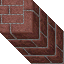
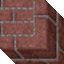
Po długich walkach naprawiony git. Dodałem prototyp strzelania prostą kulką ognia, zminiejszyłem tekstury, dodałem drzewa.

diff --git a/GraRPG/src/com/rpg/game/GameLogic.java b/GraRPG/src/com/rpg/game/GameLogic.java
@@ -6,12 +6,17 @@ package com.rpg.game;
 
 import com.rpg.draws.Render;
 import com.rpg.gameObject.GOPlayer;
+import com.rpg.gameObject.GOProjectile;
 import com.rpg.gameObject.GOTerrain;
 import com.rpg.gameObject.GameObject;
 import com.rpg.map.Map;
 import java.util.ArrayList;
 import java.util.Collections;
+import java.util.logging.Level;
+import java.util.logging.Logger;
 import org.lwjgl.input.Keyboard;
+import org.lwjgl.input.Mouse;
+import org.lwjgl.opengl.Display;
 
 /**
  *
@@ -22,9 +27,12 @@ public class GameLogic
 
     private final int[][] colorCode;
     ArrayList<GOTerrain> walls;
+    ArrayList<GOTerrain> border;
     ArrayList<GameObject> objects;
     GOPlayer player;
     Render renderer;
+    Thread t1;
+    GOProjectile spell = null;
 
     public GameLogic()
     {
@@ -32,12 +40,35 @@ public class GameLogic
 	renderer = new Render();
 	colorCode = map.getColorCodes();
 	walls = new ArrayList<>();
+	border = new ArrayList<>();
 	createObjects();
+	t1 = new Thread(new Runnable()
+	{
+
+	    @Override
+	    public void run()
+	    {
+		try
+		{
+		    Thread.sleep(1000);
+		} catch (InterruptedException ex)
+		{
+		    Logger.getLogger(GameLogic.class.getName()).log(Level.SEVERE, null, ex);
+		}
+	    }
+	});
     }
 
     public void update()
     {
-
+	if (spell != null)
+	{
+	    if (spell.isExists())
+		spell.update();
+	    else
+		spell = null;
+	}
+	    
     }
 
     private boolean createObjects()
@@ -47,26 +78,32 @@ public class GameLogic
 	    return false;
 	}
 	int posx = 0, posy = 0;
-	
+
 	for (int i = 0; i < colorCode.length; i++)
 	{
+	    walls.add(new GOTerrain(0, posy, 10, 40, 0));
+	    walls.add(new GOTerrain(posy, 0, 40, 10, 0));
 	    for (int j = 0; j < colorCode[i].length; j++)
 	    {
-		//if(colorCode[i][j] == 2)
-		    //terrain.add(new GOTerrain(true, posx, posy, 40, 40));
-		if(colorCode[i][j] == 1)
-		    walls.add(new GOTerrain(false, posx, posy, 40, 40, 1));
-		else if(colorCode[i][j] == 3)
+		if (colorCode[i][j] == 2)
+		{
+		    walls.add(new GOTerrain(posx, posy, 10, 10, 3));
+		}
+		if (colorCode[i][j] == 1)
+		{
+		    walls.add(new GOTerrain(posx, posy, 40, 40, 1));
+		} else if (colorCode[i][j] == 3)
 		{
 		    player = new GOPlayer(posx, posy, 40, 40, walls, 2);
 		    //terrain.add(new GOTerrain(true, posx, posy, 40, 40));
 		}
 		posx += 40;
 	    }
-	    posy +=40;
+	    posy += 40;
 	    posx = 0;
 	}
 	objects = new ArrayList<>(walls);
+	walls.addAll(border);
 	objects.add(player);
 	return true;
     }
@@ -74,22 +111,51 @@ public class GameLogic
     void render()
     {
 	renderer.renderTerrain();
-	
-	//renderer.renderPlayer(player);
 	Collections.sort(objects);
+	renderer.renderObjects(new ArrayList<GameObject>(border));
 	renderer.renderObjects(objects);
-	//renderer.renderPlayer(player);
+	if(spell != null)
+	    renderer.renderSpell(spell);
     }
 
     void getInput()
     {
-	if(Keyboard.isKeyDown(Keyboard.KEY_W))
+	if (Keyboard.isKeyDown(Keyboard.KEY_W))
+	{
 	    player.moveY(-1);
-	else if(Keyboard.isKeyDown(Keyboard.KEY_S))
+	} else if (Keyboard.isKeyDown(Keyboard.KEY_S))
+	{
 	    player.moveY(1);
-	else if(Keyboard.isKeyDown(Keyboard.KEY_D))
+	} else if (Keyboard.isKeyDown(Keyboard.KEY_D))
+	{
 	    player.moveX(1);
-	else if(Keyboard.isKeyDown(Keyboard.KEY_A))
+	} else if (Keyboard.isKeyDown(Keyboard.KEY_A))
+	{
 	    player.moveX(-1);
+	}
+	if (Mouse.isButtonDown(0))
+	{
+	    if (!t1.isAlive())
+	    {
+		//objects.add(new GOTerrain(Mouse.getX(), Display.getHeight() - Mouse.getY(), 10, 10, 3));
+		spell = new GOProjectile(player.getX(), player.getY(), 10, 10, 5, Mouse.getX(), Display.getHeight() -  Mouse.getY(), walls);
+		t1 = new Thread(new Runnable()
+		{
+
+		    @Override
+		    public void run()
+		    {
+			try
+			{
+			    Thread.sleep(200);
+			} catch (InterruptedException ex)
+			{
+			    Logger.getLogger(GameLogic.class.getName()).log(Level.SEVERE, null, ex);
+			}
+		    }
+		});
+		t1.start();
+	    }
+	}
     }
 }

diff --git a/GraRPG/src/com/rpg/draws/Render.java b/GraRPG/src/com/rpg/draws/Render.java
@@ -7,6 +7,7 @@ package com.rpg.draws;
 
 import com.rpg.game.Game;
 import com.rpg.gameObject.GOPlayer;
+import com.rpg.gameObject.GOProjectile;
 import com.rpg.gameObject.GOTerrain;
 import com.rpg.gameObject.GameObject;
 import java.io.File;
@@ -35,10 +36,13 @@ public class Render
 
     Texture wallTex;
     Texture grassTex;
+    Texture waterTex;
+    Texture spellTex;
     Texture playerFrontTex;
     Texture playerRightTex;
     Texture playerBackTex;
     Texture playerLeftTex;
+    Texture treeTex;
     private boolean flag;
 
     public Render()
@@ -59,10 +63,16 @@ public class Render
 	    glBlendFunc(GL_SRC_ALPHA, GL_ONE_MINUS_SRC_ALPHA);
 	    try
 	    {
-		url = new File("GrassBack.png").toURI().toURL();
+		url = new File("GrassBack2.png").toURI().toURL();
 		grassTex = new Texture(url);
 		url = new File("Brick_Wall.png").toURI().toURL();
 		wallTex = new Texture(url);
+		url = new File("Water.png").toURI().toURL();
+		waterTex = new Texture(url);
+		url = new File("Tree.png").toURI().toURL();
+		treeTex = new Texture(url);
+		url = new File("Fireball.png").toURI().toURL();
+		spellTex = new Texture(url);
 		url = new File("HeroFront.png").toURI().toURL();
 		playerFrontTex = new Texture(url);
 		url = new File("HeroRight.png").toURI().toURL();
@@ -88,11 +98,13 @@ public class Render
 	for(GameObject t : walls)
 	{
 	    if(t.getImageCode() == 1)
-		Draw.rect(t.getX()-2, t.getY()-2, t.getSx()+20, t.getSx()+20, wallTex);
+		Draw.rect(t.getX(), t.getY(), t.getSx()+15, t.getSy()+15, wallTex);
+	    else if (t.getImageCode() == 3)
+		Draw.rect(t.getX()-25, t.getY()-25, 64, 64, treeTex);
+	    else if (t.getImageCode() == 0)
+		Draw.rect(t.getX(), t.getY(), t.getSx(), t.getSy(), waterTex);
 	    else
-	    {
 		renderPlayer((GOPlayer)t);
-	    }
 	}
     }
 
@@ -100,13 +112,18 @@ public class Render
     public void renderPlayer(GOPlayer player)
     {
 	if (player.getDirection() == 1)
-	    Draw.rect(player.getX(), player.getY(), player.getSx()+10, player.getSx()+10, playerFrontTex);
+	    Draw.rect(player.getX(), player.getY(), player.getSx(), player.getSx(), playerFrontTex);
 	else if (player.getDirection() == 2)
-	    Draw.rect(player.getX(), player.getY(), player.getSx()+10, player.getSx()+10, playerRightTex);
+	    Draw.rect(player.getX(), player.getY(), player.getSx(), player.getSx(), playerRightTex);
 	else if (player.getDirection() == 0)
-	    Draw.rect(player.getX(), player.getY(), player.getSx()+10, player.getSx()+10, playerLeftTex);
+	    Draw.rect(player.getX(), player.getY(), player.getSx(), player.getSx(), playerLeftTex);
 	else
-	    Draw.rect(player.getX(), player.getY(), player.getSx()+10, player.getSx()+10, playerBackTex);
+	    Draw.rect(player.getX(), player.getY(), player.getSx(), player.getSx(), playerBackTex);
+    }
+    
+    public void renderSpell(GOProjectile spell)
+    {
+	Draw.rect(spell.getX(), spell.getY(), spell.getSx(), spell.getSy(), spellTex);
     }
     
 }

diff --git a/GraRPG/src/com/rpg/gameObject/GOProjectile.java b/GraRPG/src/com/rpg/gameObject/GOProjectile.java
@@ -1,0 +1,50 @@
+/*
+ * RPG Game - Software Engineering * All rights reserved
+ * Konrad Rugala, Krzysztof Sobieraj
+ */
+
+package com.rpg.gameObject;
+
+import com.rpg.physics.Collision;
+import java.util.ArrayList;
+
+/**
+ *
+ * @author Konrad
+ */
+public class GOProjectile extends GameObject
+{
+
+    private float speed = 6;
+    private float speedX;
+    private float speedY;
+    private boolean exists = true;
+    ArrayList<GOTerrain> objects;
+    private boolean test;
+    
+    public GOProjectile(float x, float y, float sx, float sy, int imageCode, float targetX, float targetY, ArrayList<GOTerrain> objects)
+    {
+	super(x, y, sx, sy, imageCode);
+	float vectorLength = (float) Math.sqrt(Math.pow(targetX - x, 2)+Math.pow(targetY - y, 2));
+	float cosAlpha = (targetX - x) / vectorLength;
+	speedX = cosAlpha * speed;
+	float sinAlpha = (targetY - y) / vectorLength;
+	speedY = sinAlpha * speed;
+	this.objects = objects;
+    }
+
+    @Override
+    public void update()
+    {
+	x += speedX;
+	y += speedY;
+	if (Collision.checkIntersection(this, objects))
+	    exists = false;
+    }
+
+    public boolean isExists()
+    {
+	return exists;
+    }
+    
+}

diff --git a/GraRPG/src/com/rpg/gameObject/GOTerrain.java b/GraRPG/src/com/rpg/gameObject/GOTerrain.java
@@ -2,42 +2,32 @@
  * RPG Game - Software Engineering * All rights reserved
  * Konrad Rugala, Krzysztof Sobieraj
  */
-
 package com.rpg.gameObject;
 
 /**
  * Obiekt reperezentujący ściany i podłoże
+ *
  * @author Konrad
  */
 public class GOTerrain extends GameObject
 {
-    
-    private final boolean canIStandOn;
 
     /**
-     * 
-     * @param canIStandOn określa czy obiekt jest ścianą czy podłożem
+     *
      * @param x współrzędna x lewego dolnego rogu
      * @param y współrzędna y lewego dolnego rogu
      * @param sx szerokość obiektu
      * @param sy wysokość obiektu
      */
-    public GOTerrain(boolean canIStandOn, float x, float y, float sx, float sy, int imageCode)
+    public GOTerrain(float x, float y, float sx, float sy, int imageCode)
     {
 	super(x, y, sx, sy, imageCode);
-	this.canIStandOn = canIStandOn;
     }
-    
+
     @Override
     public void update()
     {
-	
+
     }
 
-    public boolean CanIStandOn()
-    {
-	return canIStandOn;
-    }
-    
-    
 }

diff --git a/GraRPG/src/com/rpg/game/Game.java b/GraRPG/src/com/rpg/game/Game.java
@@ -16,6 +16,7 @@ import java.util.logging.Level;
 import java.util.logging.Logger;
 import org.lwjgl.LWJGLException;
 import org.lwjgl.input.Keyboard;
+import org.lwjgl.input.Mouse;
 import org.lwjgl.opengl.Display;
 import org.lwjgl.opengl.DisplayMode;
 import org.lwjgl.opengl.GL11;
@@ -64,6 +65,7 @@ public class Game
 	    Display.create();
 	    Display.setVSyncEnabled(true);
 	    Keyboard.create();
+	    Mouse.create();
 	} catch (LWJGLException ex)
 	{
 	    Logger.getLogger(Game.class.getName()).log(Level.SEVERE, null, ex);
@@ -111,6 +113,7 @@ public class Game
     {
 	Display.destroy();
 	Keyboard.destroy();
+	Mouse.destroy();
     }
 
     private void mainLoop()

diff --git a/GraRPG/src/com/rpg/map/Map.java b/GraRPG/src/com/rpg/map/Map.java
@@ -62,7 +62,7 @@ public class Map
 		    pixelTable[i][j] = 1;
 		} else if (pixelColors[i * mapImage.getWidth() + j].getRed() == 0
 			&& pixelColors[i * mapImage.getWidth() + j].getBlue() == 0
-			&& pixelColors[i * mapImage.getWidth() + j].getGreen() == 0)
+			&& pixelColors[i * mapImage.getWidth() + j].getGreen() == 255)
 		{
 		    pixelTable[i][j] = 2;
 		} else if (pixelColors[i * mapImage.getWidth() + j].getRed() == 0

diff --git a/GraRPG/src/com/rpg/physics/Collision.java b/GraRPG/src/com/rpg/physics/Collision.java
@@ -38,4 +38,14 @@ public class Collision
         }
         return false;
     }
+    
+    public static boolean checkIntersect(GameObject g1, ArrayList<GameObject> lstGO)
+    {
+        for(GameObject g2 : lstGO)
+        {
+            if(checkIntersection(g1, g2))
+                return true;
+        }
+        return false;
+    }
 }
